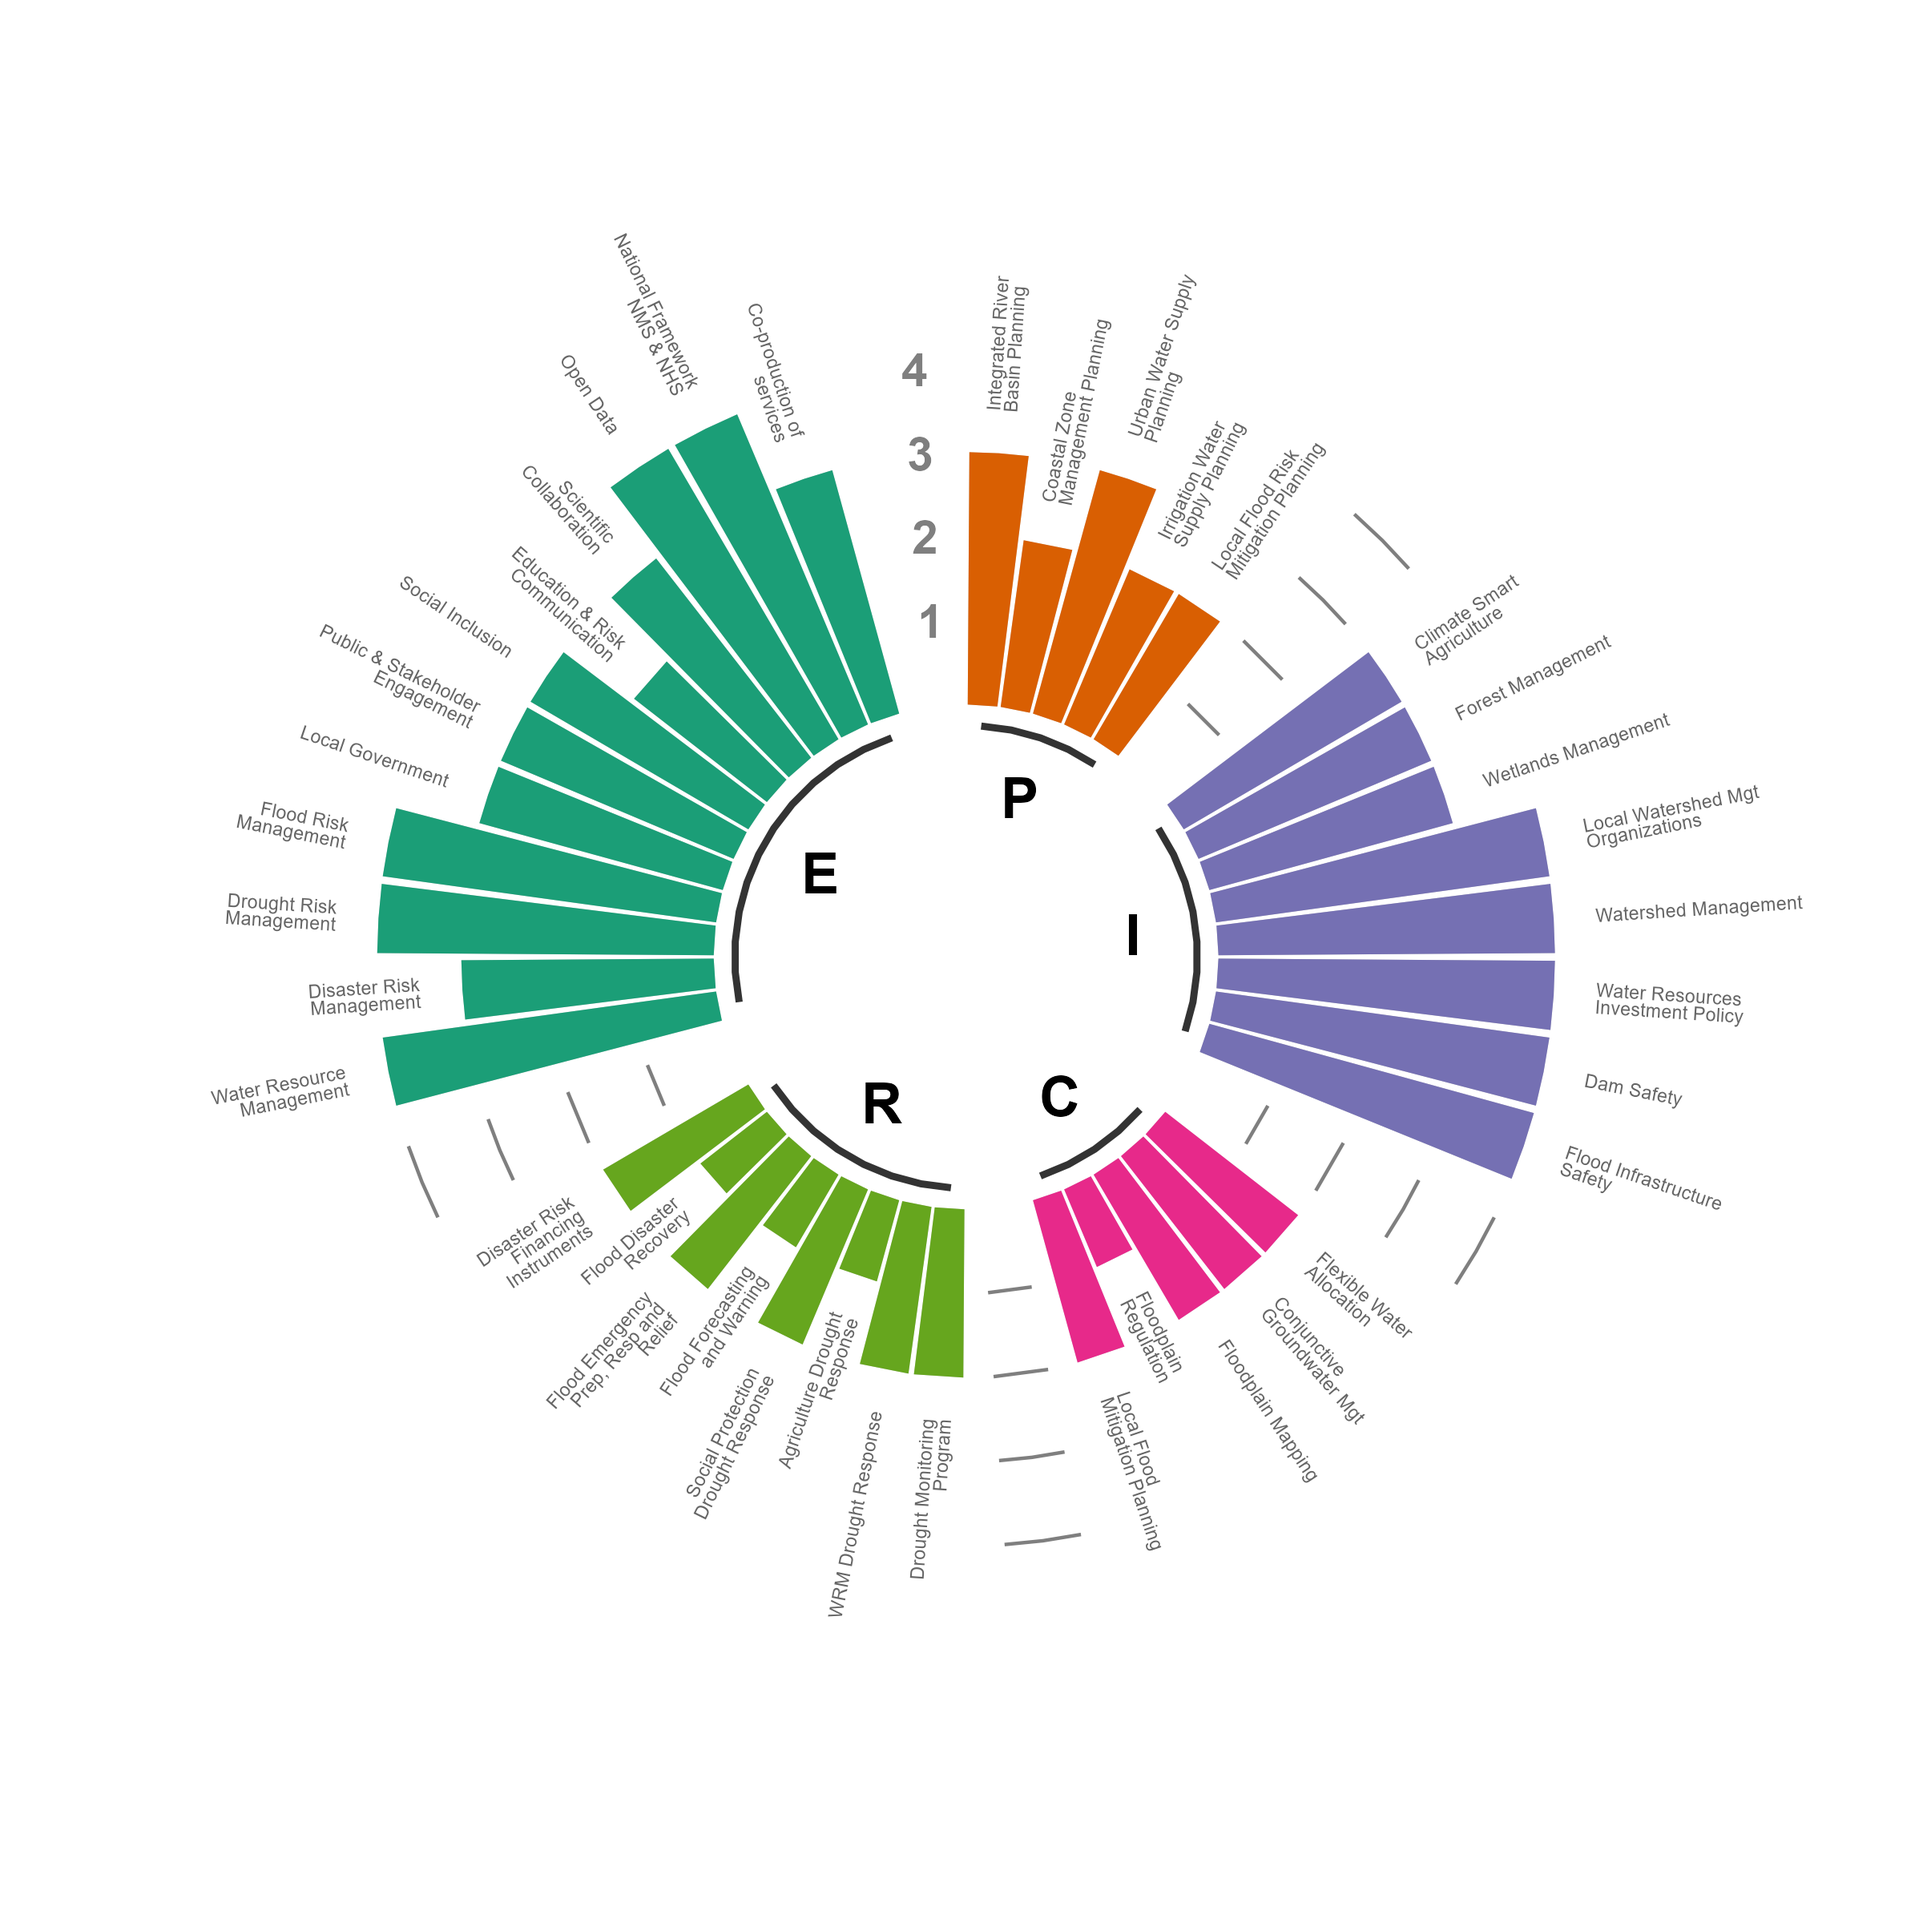
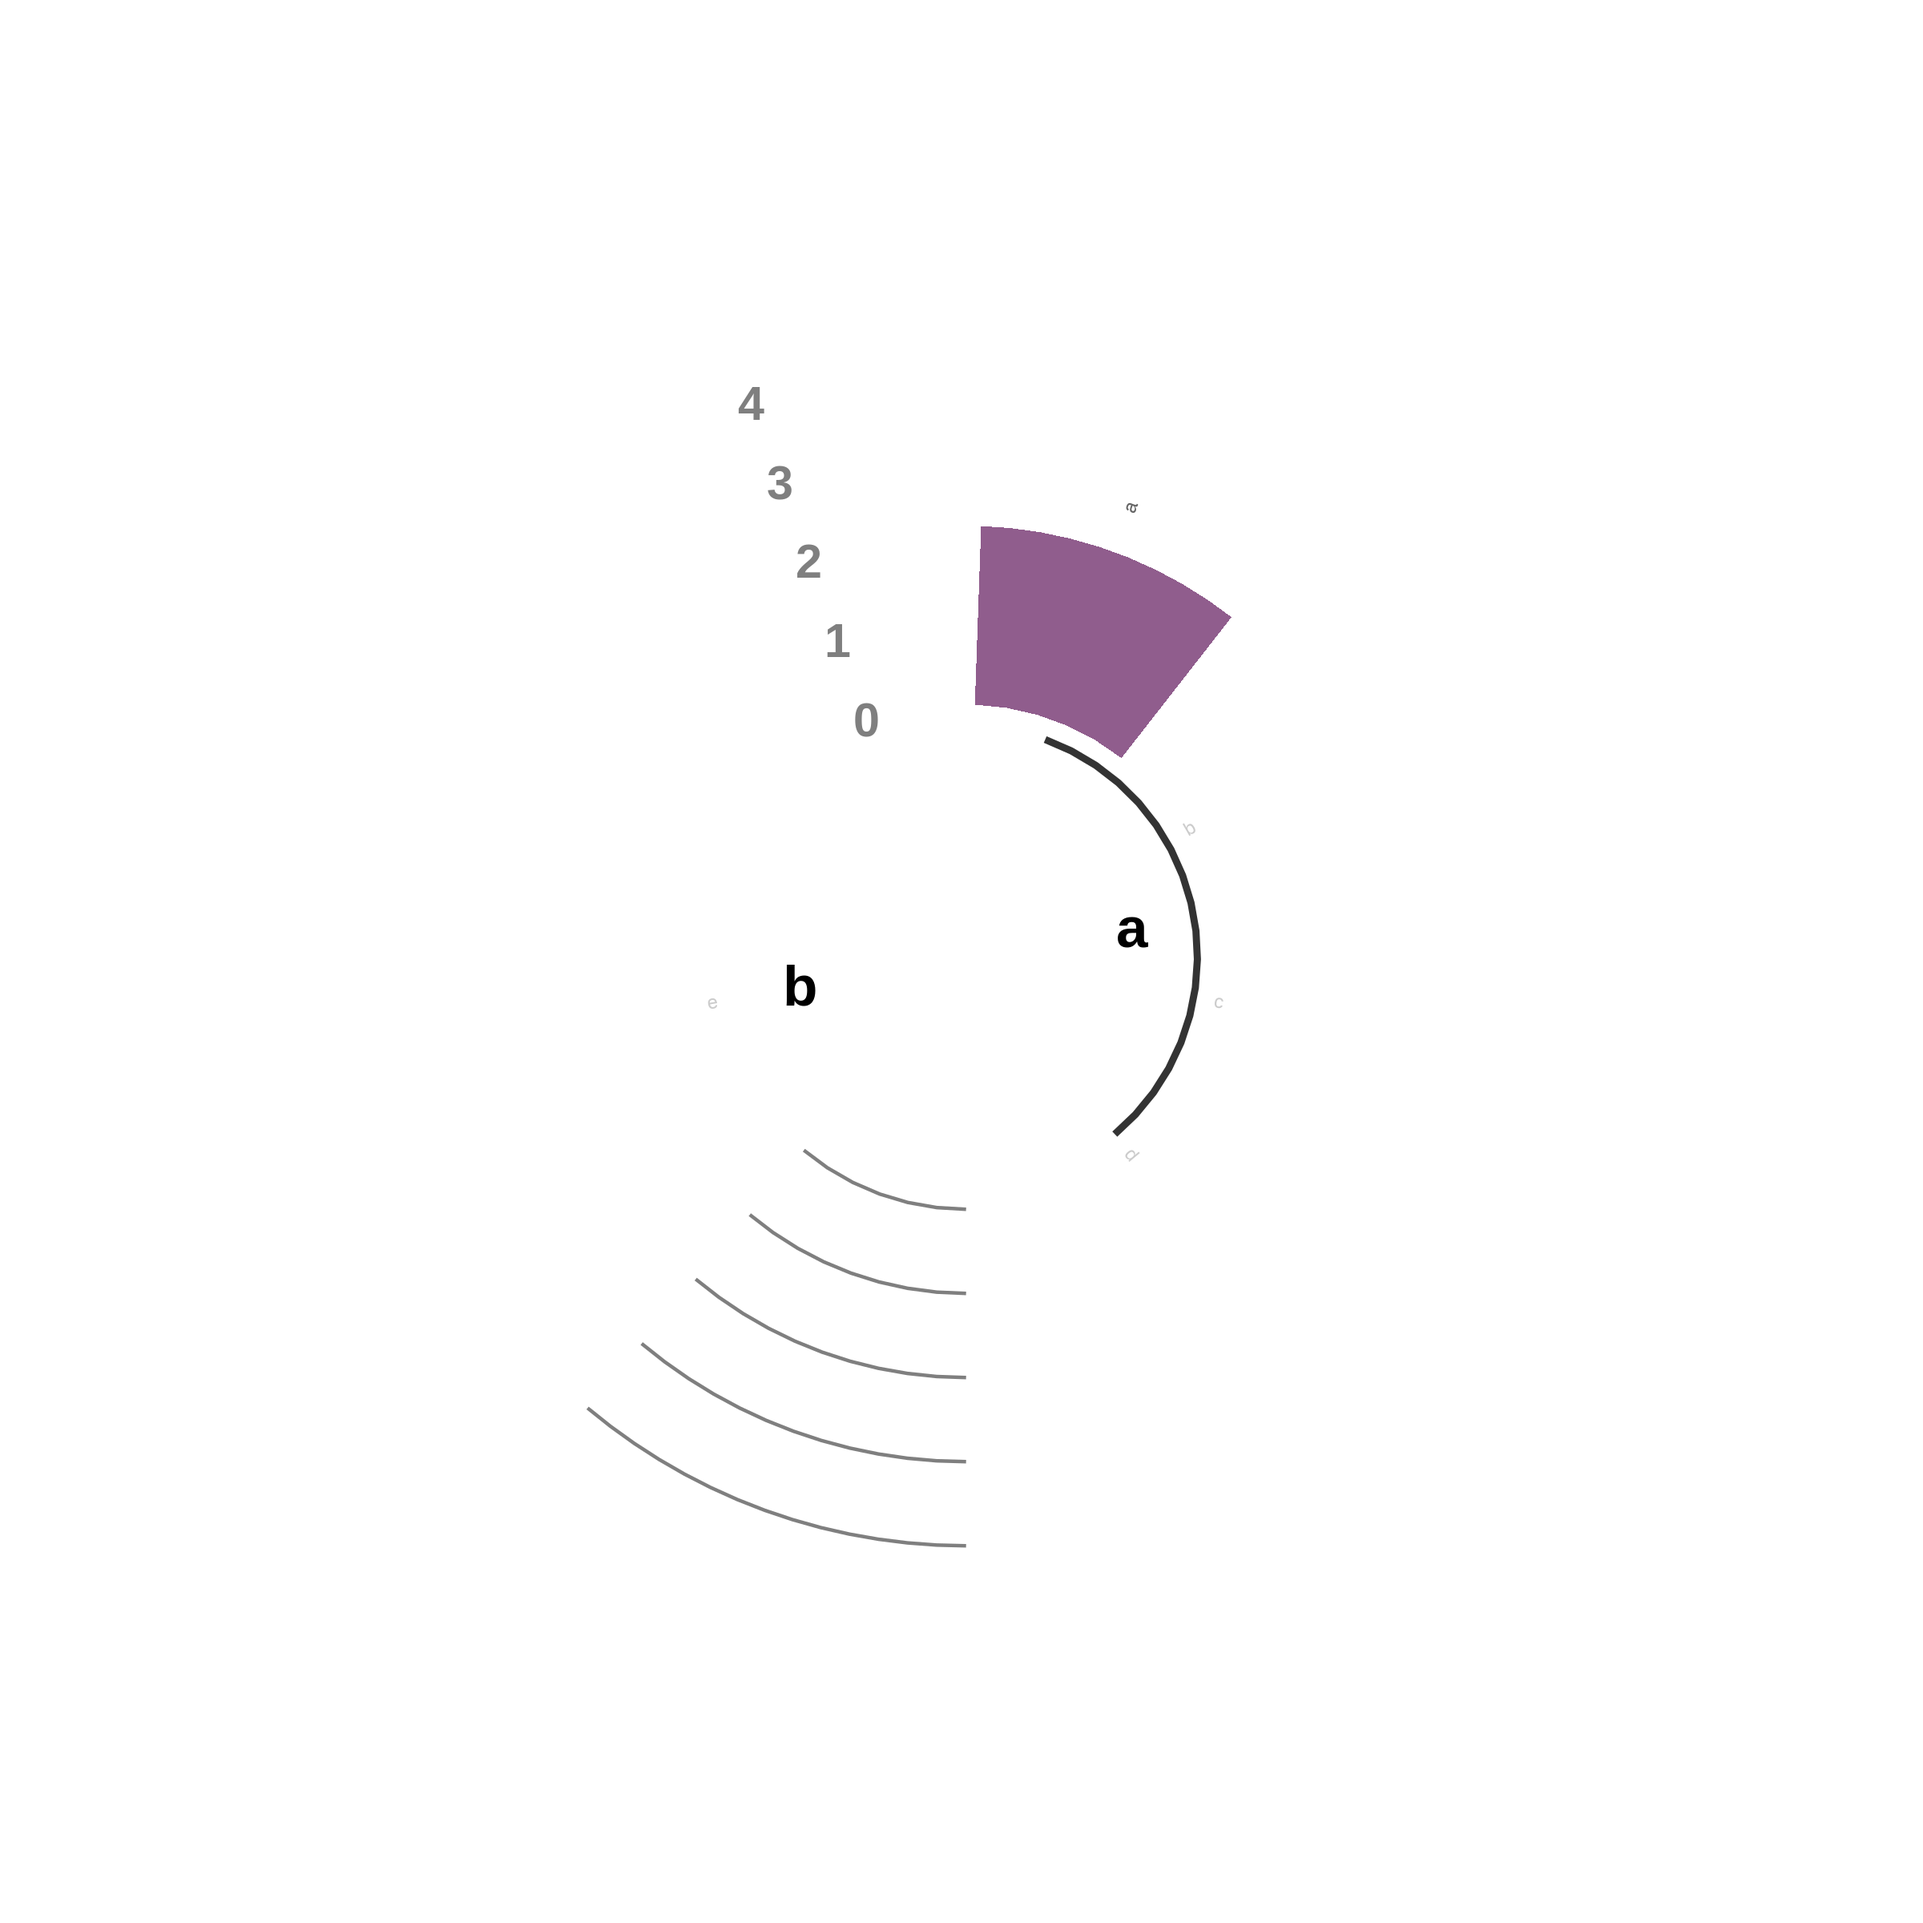
Fix/radial plot with 0 values (#19)
* fix issue when all values are 0 & fewer entries

* fix issue when all values are 0 & fewer entries

* ci: Removed unnecessary directory

* test: Adapted tests to not include the brackets in the filename as it will fail in GitHub

* bump: version 1.6.2 → 1.6.3

* autoformat: isort & black

diff --git a/epic_app/tests/externals/ERAMVisuals/test_eram_visuals_wrapper.py b/epic_app/tests/externals/ERAMVisuals/test_eram_visuals_wrapper.py
@@ -30,7 +30,10 @@ class TestEramVisualsWrapper:
         # 1. Define test data.
         _csv_file = test_data_dir / "csv" / test_file
         assert _csv_file.exists()
-        _output_dir = test_data_dir / request.node.name
+        _test_case_name = (
+            request.node.name.replace(" ", "_").replace("[", "__").replace("]", "__")
+        )
+        _output_dir = test_data_dir / _test_case_name
         if _output_dir.exists():
             shutil.rmtree(_output_dir)
 

diff --git a/epic_core/__init__.py b/epic_core/__init__.py
@@ -1,1 +1,1 @@
-__version__ = "1.6.2"
+__version__ = "1.6.3"

diff --git a/docs/changelog.md b/docs/changelog.md
@@ -1,3 +1,9 @@
+## v1.6.3 (2022-09-14)
+
+### Fix
+
+- Fixed script so its not data-dependent (#17)
+
 ## v1.6.2 (2022-09-13)
 
 ### Fix
